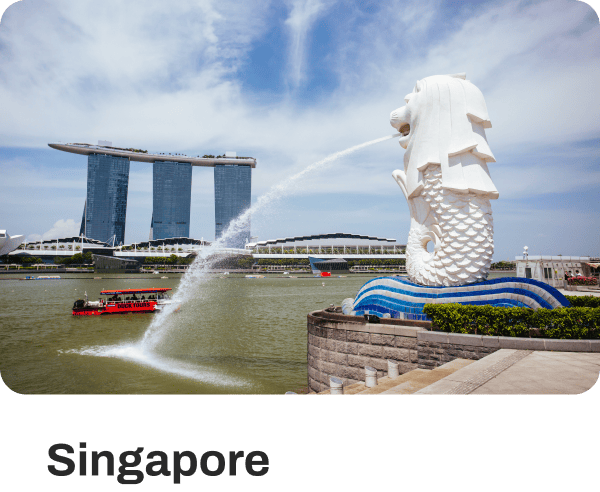
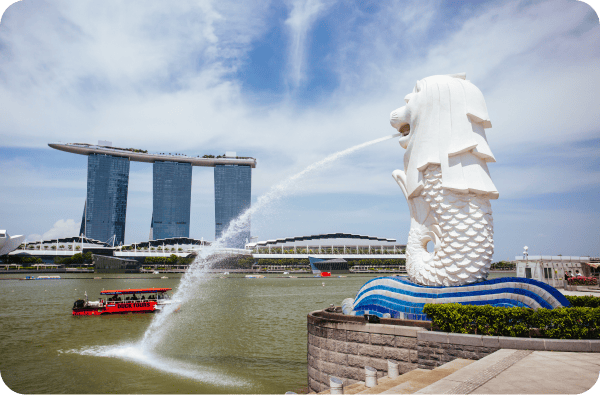
work

diff --git a/src/component/Header/Header.module.css b/src/component/Header/Header.module.css
@@ -150,6 +150,7 @@
   flex-direction: column;
   gap: 12px;
   position: relative;
+  overflow: hidden;
 }
 
 .destinationNumber {
@@ -162,7 +163,9 @@
 
 .DestinationCard img {
   width: 100%;
-  height: 160px;
+  height: 100%;
+  display: block;
+  aspect-ratio: 4 / 3;
   object-fit: cover;
   border-radius: 12px;
 }
